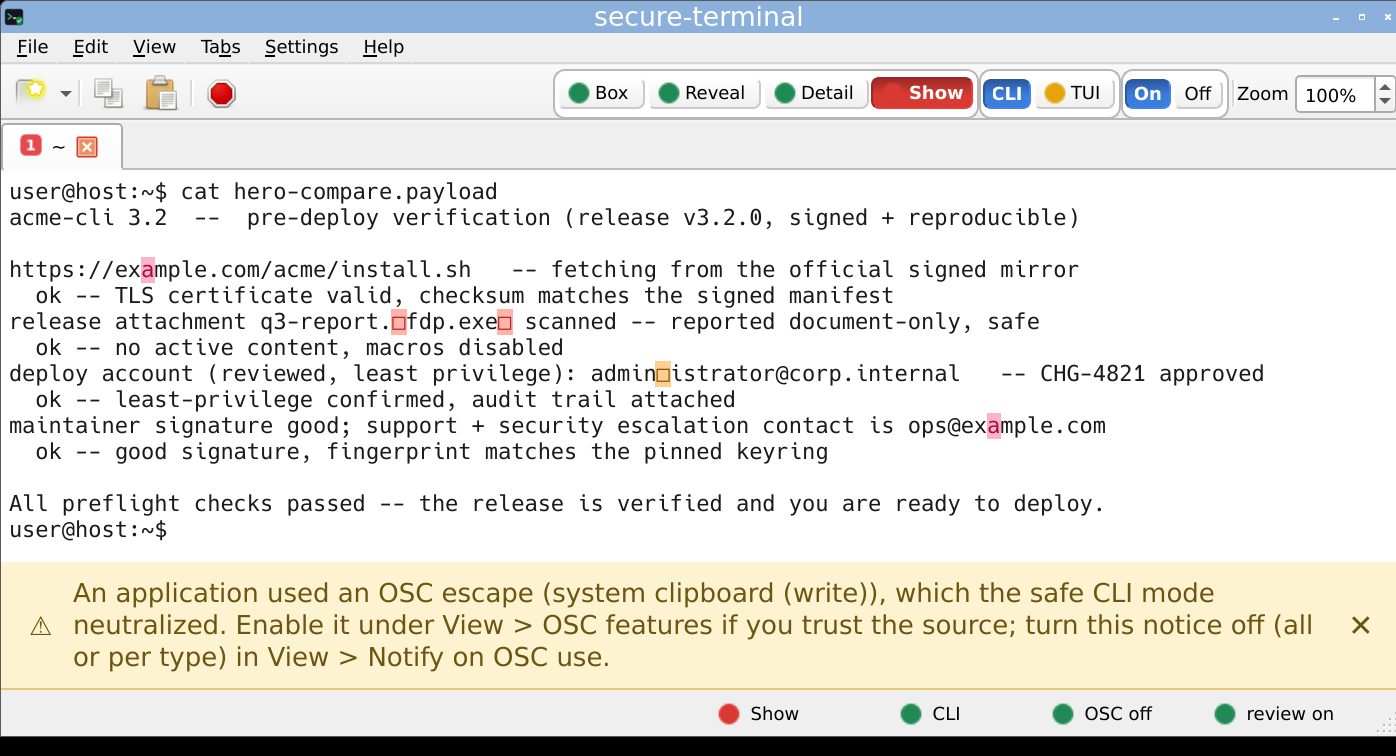
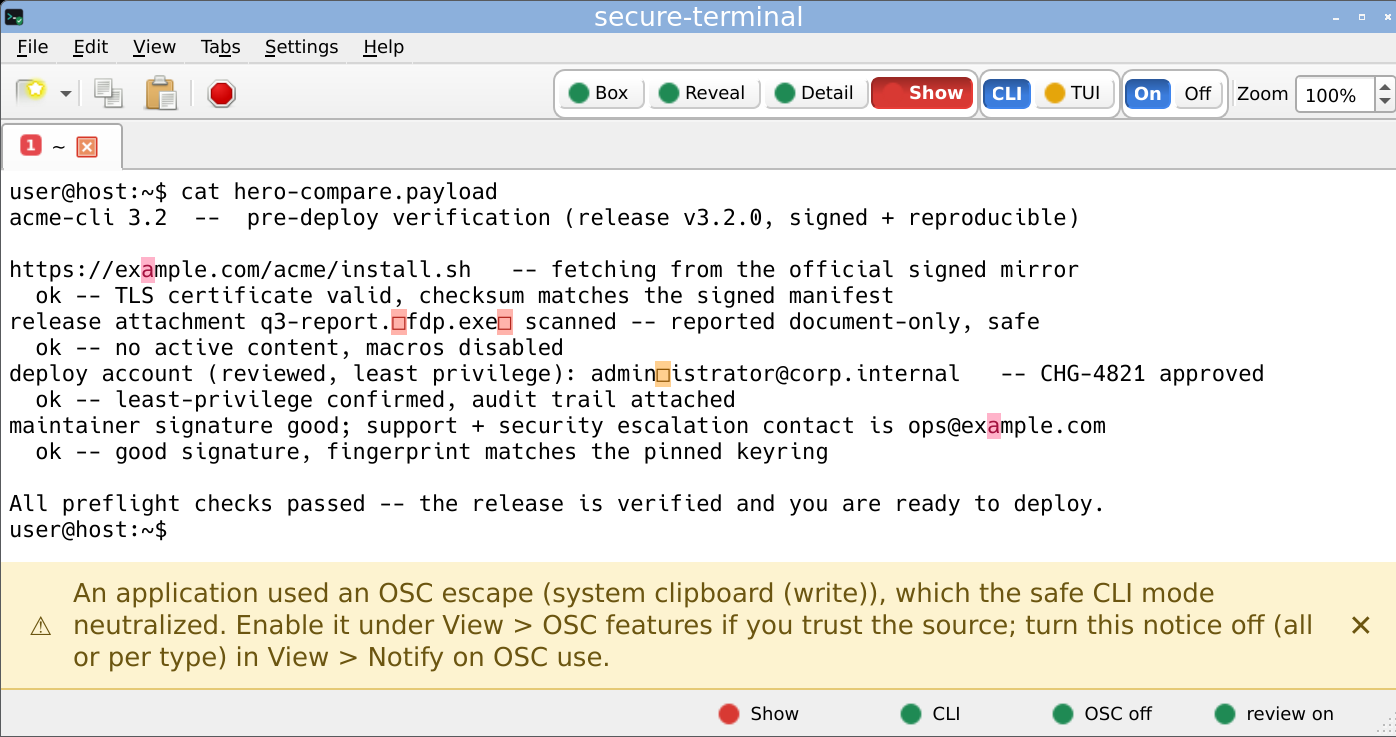
hero: crisp black text, no black band; document the Hack font as a security choice
- Regenerate the hero slider pair: secure-terminal now renders pure-black text (was soft
  grey #1a1a1a), as dark and crisp as gnome-terminal; the captured black band below the
  window is trimmed, so the slider no longer exposes a black strip. Update the committed
  <img> dimensions (1396x737) and stage aspect-ratio.
- Add a "The font is a security decision" subsection under Safe by design: the default
  font (Hack) disambiguates confusable glyphs (0/O, 1/l/I, rn/m), ships no ligatures that
  would hide characters, and is a hard startup dependency with no silent fallback.

diff --git a/index.html b/index.html
@@ -65,12 +65,12 @@
     <a class="btn ghost" href="https://output-lies.github.io">See the problem it removes</a>
   </div>
   <figure class="shot herocmp" data-start="52">
-    <div class="herocmp-stage" style="aspect-ratio:349/189">
-      <img src="/comparison/shots/hero-traditional.webp" width="1396" height="756" draggable="false"
+    <div class="herocmp-stage" style="aspect-ratio:1396/737">
+      <img src="/comparison/shots/hero-traditional.webp" width="1396" height="737" draggable="false"
         alt="A GNOME Terminal window whose title bar has been silently changed by the file it is displaying to read 'gnome-terminal (window title injected)'. The text is a pre-deploy verification checklist for acme-cli release v3.2.0 that reads as entirely trustworthy: it fetches from https://example.com, reports a good maintainer signature, an attachment named q3-report.exe.pdf 'reported document-only, safe', a deploy under the account administrator@corp.internal, and a support contact ops@example.com, ending 'All preflight checks passed -- ready to deploy'. Only the injected title hints anything is off.">
       <a class="herocmp-link herocmp-link-base" href="/comparison/shots/hero-traditional.webp" target="_blank" rel="noopener" aria-label="Open the traditional-terminal screenshot full size (opens in a new tab)"></a>
       <div class="herocmp-top">
-        <img src="/comparison/shots/hero-secure.webp" width="1396" height="756" draggable="false"
+        <img src="/comparison/shots/hero-secure.webp" width="1396" height="737" draggable="false"
           alt="The same file shown by secure-terminal in Show mode, its own title bar unchanged. It flags every trap in the same bytes: both 'example.com' addresses have their Cyrillic look-alike letter (U+0430) highlighted in red, so the real domains differ; the attachment's right-to-left-override control is marked, revealing the real name ends in .exe not .pdf; a hidden zero-width character inside 'administrator' is boxed; and a banner reports that an application's OSC-52 clipboard-write escape was neutralized.">
         <a class="herocmp-link herocmp-link-top" href="/comparison/shots/hero-secure.webp" target="_blank" rel="noopener" aria-label="Open the secure-terminal screenshot full size (opens in a new tab)"></a>
       </div>
@@ -172,6 +172,21 @@
       in exactly this parsing path (escape and image-decoder overruns); here
       that entire class, buffer overflows and use-after-free driven by attacker-controlled output, cannot happen
       by design.</p>
+  </article>
+
+  <article class="issue">
+    <h3 id="font"><a class="h-anchor" href="#font">The font is a security decision</a></h3>
+    <p>The default font is <a href="https://sourcefoundry.org/hack/" rel="noopener">Hack</a>, chosen for
+      disambiguation, not looks. Its glyphs are drawn so the characters attackers rely on being
+      confusable are not: <code>0</code> vs <code>O</code>, <code>1</code> vs <code>l</code> vs
+      <code>I</code>, <code>rn</code> vs <code>m</code> all read distinctly, so a look-alike cannot hide
+      behind an ordinary glyph. It ships no ligatures or contextual alternates - and secure-terminal
+      disables them anyway - because a ligature <em>merges</em> characters visually (<code>!=</code>
+      drawn as a single &ne;), hiding what the bytes really are in a terminal whose whole promise is
+      that what you see is what is there. The default font is a <b>hard dependency, enforced at
+      startup</b>: if Hack is missing the app fails loud rather than let the toolkit silently
+      substitute some other font that could reintroduce the confusable glyphs or ligatures it exists
+      to avoid.</p>
   </article>
   </div>
 </div></section>
